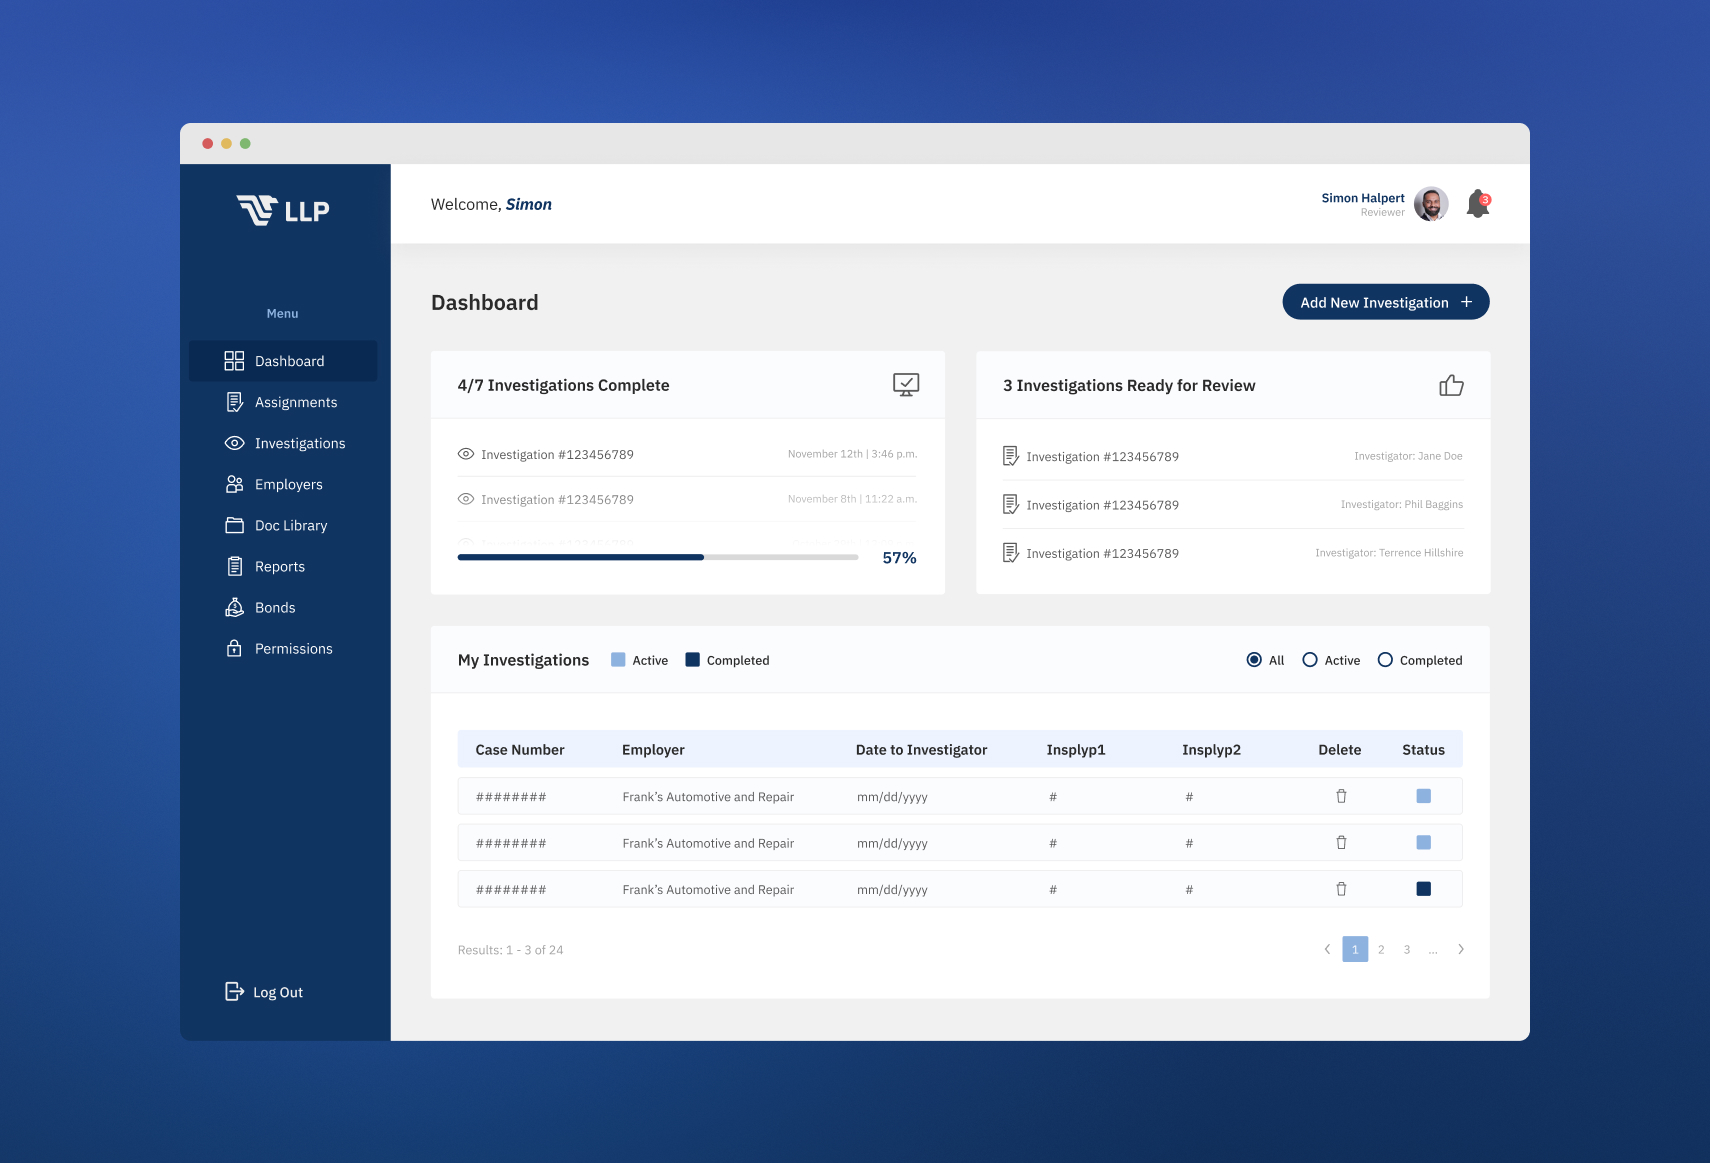
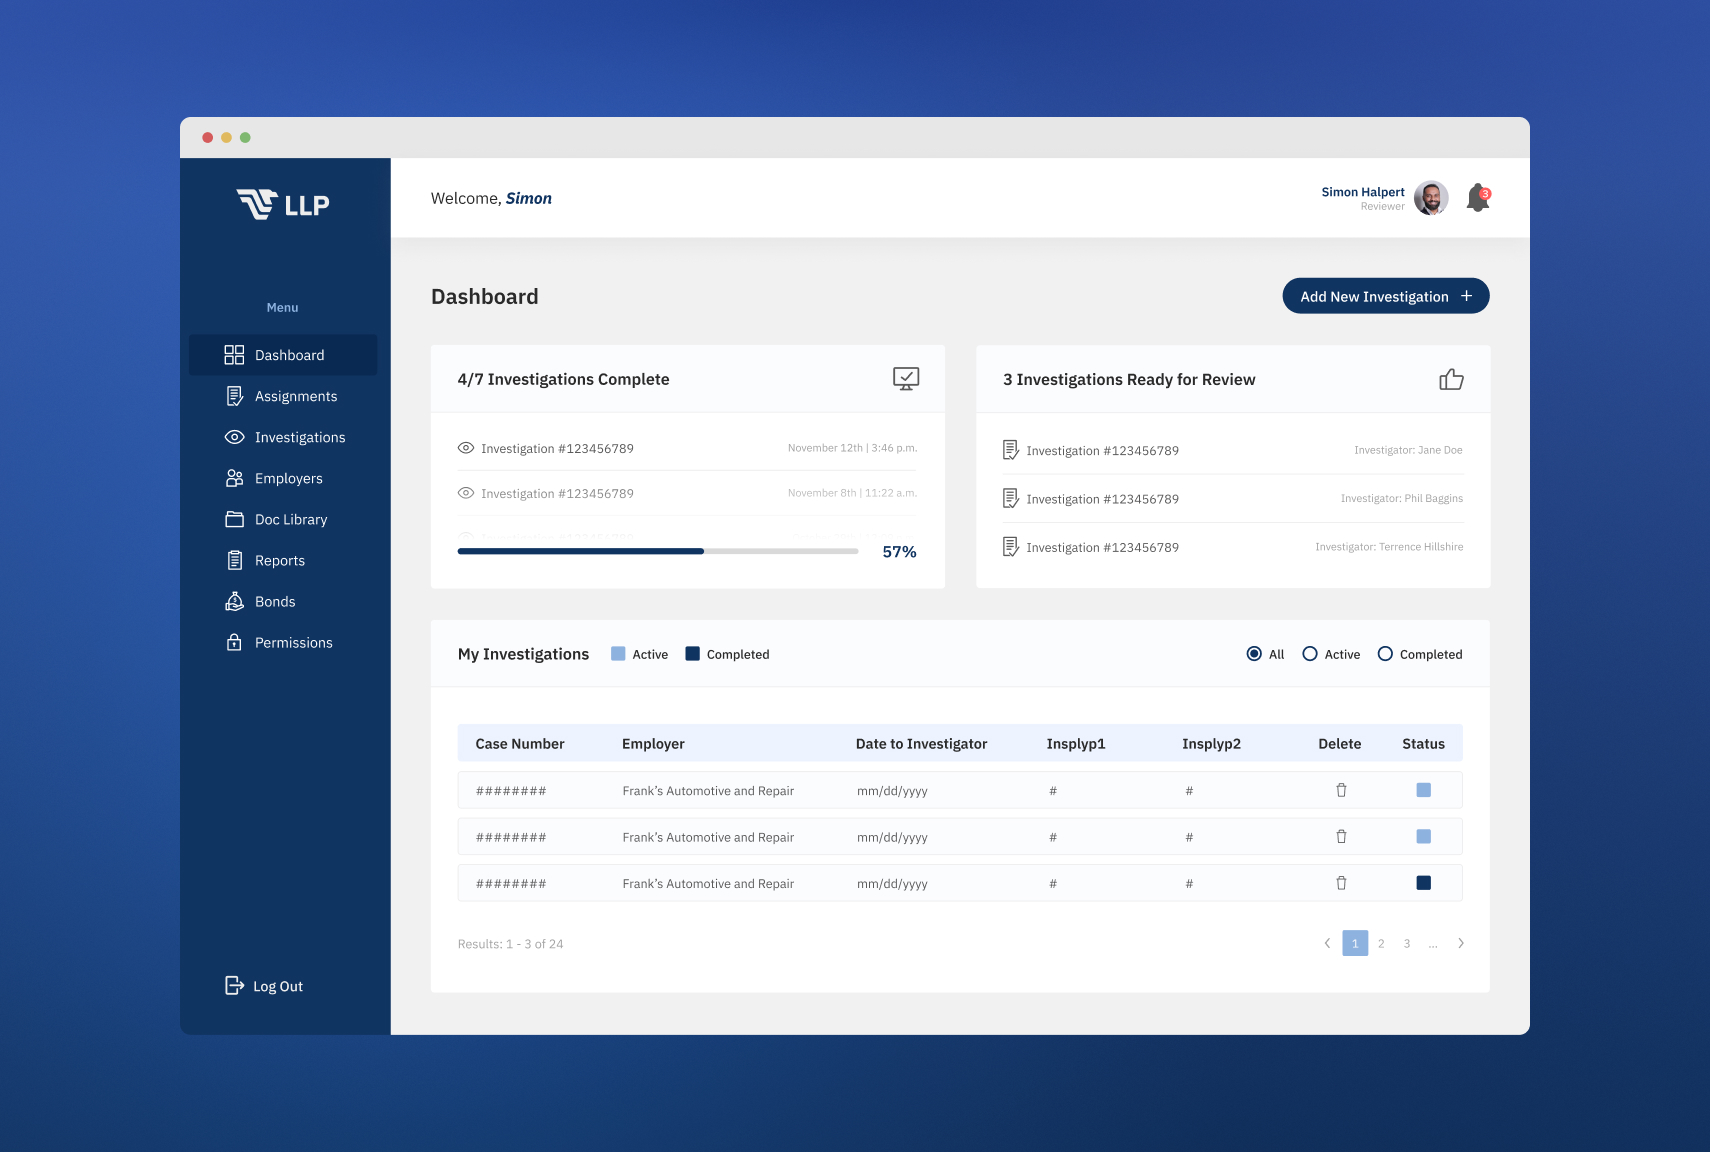
update llp hero img and scroll to top button

diff --git a/llp.html b/llp.html
@@ -28,7 +28,7 @@
                     Labor Law Pro
                 </h1>
             </div>
-            <img class="round-img" src="./Website Images/LLP Application/Screen Mockups with Background/LLP Hero Desktop v2.jpg" alt="LLP app dashborad">
+            <img class="round-img" src="./Website Images/LLP Application/Screen Mockups with Background/LLP - Dashboard.jpg" alt="LLP app dashborad">
         </div>
     </div>
 

diff --git a/styles.css b/styles.css
@@ -1595,6 +1595,8 @@ button, .btn-2 {
   bottom: 0%; /* Start positioning from the middle of the viewport */
   right: 0; /* Aligns the menu to the left side */
   padding: 1rem;
+  height: 50px;
+  width: 50px;
   background-color: var(--secondary-grey);
   border: solid 1px var(--secondary-light-grey);
   border-radius: 1000px;
